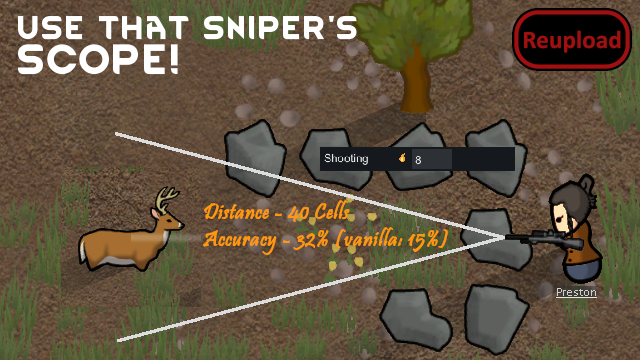
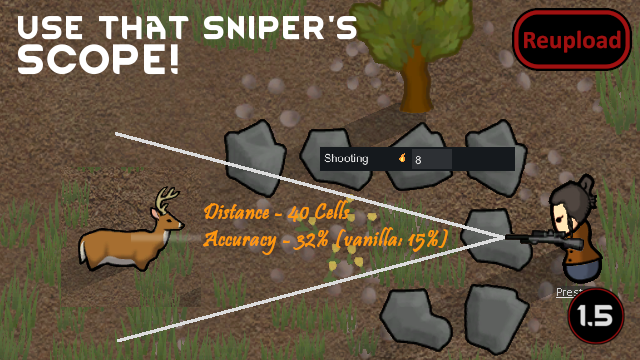
Mod updated for 1.5 and passed autotests

Changed region(s): [[0.875, 0.7944, 1.0, 0.9778]]

diff --git a/README.md b/README.md
@@ -42,11 +42,13 @@ As is standard with my mods: you may include this mod in a mod pack, and you may
 
 -  See if the the error persists if you just have this mod and its requirements active.
 -  If not, try adding your other mods until it happens again.
--  Post your error-log using https://steamcommunity.com/workshop/filedetails/?id=818773962]HugsLib and command Ctrl+F12
+-  Post your error-log using https://steamcommunity.com/workshop/filedetails/?id=818773962]HugsLib or the standalone https://steamcommunity.com/sharedfiles/filedetails/?id=2873415404]Uploader and command Ctrl+F12
 -  For best support, please use the Discord-channel for error-reporting.
 -  Do not report errors by making a discussion-thread, I get no notification of that.
 -  If you have the solution for a problem, please post it to the GitHub repository.
+-  Use https://github.com/RimSort/RimSort/releases/latest]RimSort to sort your mods
 
 
 
+https://steamcommunity.com/sharedfiles/filedetails/changelog/2036363660]![Image](https://img.shields.io/github/v/release/emipa606/XNDUseThatSniperScope?label=latest%20version&style=plastic&color=9f1111&labelColor=black)
 
